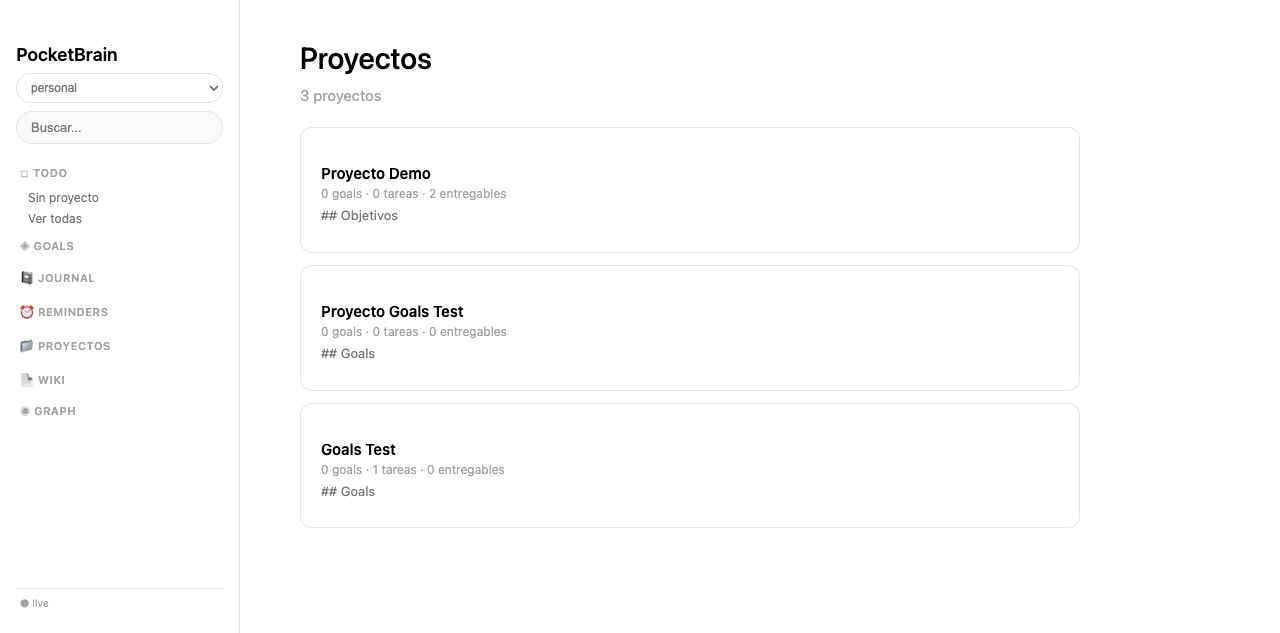
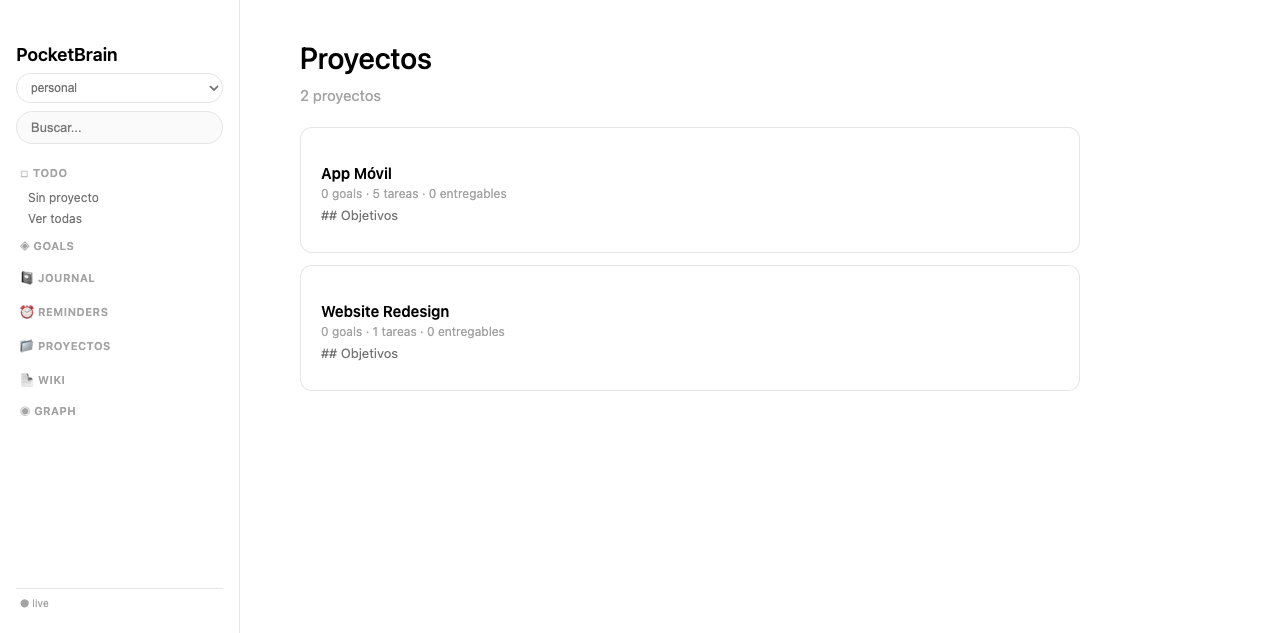
Fix screenshots: projects, kanban, goals, graph

Changed region(s): [[0.25, 0.4803, 0.4062, 0.5703], [0.25, 0.6904, 0.4062, 0.7804], [0.25, 0.2701, 0.3438, 0.3002]]

diff --git a/README.md b/README.md
@@ -22,7 +22,7 @@ pb = quick_pb()
 records = pb.list('mi_coleccion', filter="status='active'")
 ```
 
-Variables de entorno requeridas: `POCKETBASE_HOST`, `POCKETBASE_EMAIL`, `POCKETBASE_PASSWORD`.
+Variables de entorno: `POCKETBASE_HOST`, `POCKETBASE_EMAIL`, `POCKETBASE_PASSWORD`.
 
 ---
 
@@ -37,27 +37,29 @@ python3 brain_web.py --brain personal
 # → http://localhost:8080
 ```
 
-7 secciones navegables con diseño limpio:
+### Proyectos
+
+Cada proyecto agrupa goals, tareas, entregables y archivos. Vista completa de estado.
 
 ![Projects](screenshots/projects.png)
 
----
+### Kanban
 
-### Kanban de Tareas
-
-Flujo completo: backlog → this week → today → in progress → done. Drag & drop entre columnas.
+Flujo de tareas: backlog → this week → today → in progress → done. Filtro por proyecto.
 
 ![Kanban](screenshots/kanban.png)
 
----
+### Goals & OKRs
 
-### Graph de Conexiones
+Milestones con deadline, goals con progreso, OKRs con key results anidados. Retrospectiva al cerrar.
 
-Visualización de todas las relaciones entre páginas, goals, tareas, entregables y recordatorios.
+![Goals](screenshots/goals.png)
+
+### Graph
+
+Visualización de todas las relaciones: páginas, goals, tareas, deliverables, reminders.
 
 ![Graph](screenshots/graph.png)
-
----
 
 ### Desde el Agente
 
@@ -67,25 +69,22 @@ brain = Brain('personal')
 
 # Conocimiento
 brain.create_page("Tema", body="## Ideas\n...", page_type="concept")
-brain.search("machine learning")     # case-insensitive, rankeado
+brain.search("machine learning")
 
 # Tareas
 brain.create_todo("Revisar PR", domain="bravo")
-brain.todos(status="today")
 brain.move_todo(id, "done")
 
 # Goals con retrospectiva
 brain.create_goal("Lanzar MVP", type="milestone", deadline="2026-09-30")
 brain.complete_goal(id, retrospective="Entregado a tiempo.")
 
-# Proyectos con todo conectado
+# Proyectos
 brain.create_page("App Móvil", page_type="project")
 brain.create_deliverable("app-movil", file, title="Specs", version="v1")
 
-# Diario
+# Diario y recordatorios
 brain.journal_write("## Hoy\n- Avancé en [[proyecto-x]]", mood="great")
-
-# Recordatorios
 brain.create_reminder("Reunión", date="2026-06-15", time="10:00")
 
 # Exportar a markdown
@@ -96,26 +95,17 @@ brain.create_reminder("Reunión", date="2026-06-15", time="10:00")
 
 | Colección | Para |
 |-----------|------|
-| `brains` | Cerebros independientes (personal, bravo, proyectos...) |
+| `brains` | Cerebros independientes |
 | `brain_pages` | Páginas markdown con `[[wikilinks]]` |
 | `brain_todos` | Tareas con kanban |
 | `brain_goals` | Goals, milestones, OKRs con retrospectiva |
 | `brain_reminders` | Recordatorios con fecha/hora |
-| `brain_journal` | Diario (una entrada por día) |
+| `brain_journal` | Diario |
 | `brain_deliverables` | Entregables versionados |
 | `brain_files` | Archivos adjuntos |
 | `brain_tags`, `brain_domains` | Organización |
 | `brain_page_versions` | Historial de cambios |
-| `brain_log` | Bitácora con trazabilidad (agente + usuario) |
-
-### Scripts
-
-| Script | Uso |
-|--------|-----|
-| `brain_web.py` | Servidor web live |
-| `brain.py` | Cliente Python para agentes |
-| `sync.py` | Export a markdown local |
-| `graph.py` | Graph HTML standalone |
+| `brain_log` | Bitácora con trazabilidad |
 
 ---
 